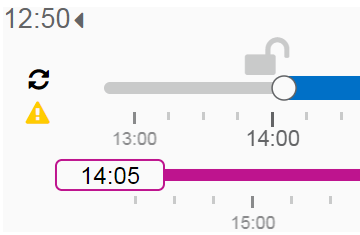
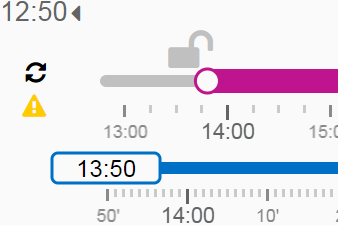
fixed styling changes (both work & text)

diff --git a/angular/src/app/slider-directive/slider-upper.directive.ts b/angular/src/app/slider-directive/slider-upper.directive.ts
@@ -11,7 +11,7 @@ import {
 
 export const LINE_HEIGHT_MULTIPLY = 1;
 export const LINE_EMPTY_HEIGHT_MULTIPLY = 0.5;
-export const THUMB_STROKE_MULTIPLY = 0.0625;
+export const THUMB_STROKE_MULTIPLY = 0.125;
 export const LOCKER_ICON_FONT_MULTIPLY = 2;
 
 @Directive({
@@ -43,7 +43,6 @@ export class D3SliderUpperDirective extends D3SliderBaseDirective {
     const sliderSideMargin = this.getSideMargin();
     const sliderTopMargin = fontSize * (this.isLockSectionHidden ? 1.125 : 2.25);
     const thumbSize = fontSize * 0.5;
-    const thumbSizeClick = fontSize * 0.625;
     const leftLockAddition = fontSize * 0.875;
     const rightLockAddition = fontSize * 2.875;
 
@@ -51,25 +50,14 @@ export class D3SliderUpperDirective extends D3SliderBaseDirective {
     let normValueRight = this.getNormValue(this.rangeChosen[1]); // value normalized between 0-1
     let denormValueDrag;
 
-    // after initial click on handler these 'START' methods are called:
-    function dragStartLeft() {
-      leftHandler.attr('r', thumbSizeClick);
-    }
-
-    function dragStartRight() {
-      rightHandler.attr('r', thumbSizeClick);
-    }
-
     // after releasing handler these 'END' methods are called:
     function dragEndLeft() {
-      leftHandler.attr('r', this.thumbSize);
       if (eventLeft) {
         eventLeft(normValueLeft);
       }
     }
 
     function dragEndRight() {
-      rightHandler.attr('r', this.thumbSize);
       if (eventRight) {
         eventRight(normValueRight);
       }
@@ -145,7 +133,6 @@ export class D3SliderUpperDirective extends D3SliderBaseDirective {
 
       // re-render handler and related elements
       rightHandler.attr('cx', sliderSideMargin + selectedValueRight);
-      rightLockWrapper.attr('x', selectedValueRight + rightLockAddition);
       valueLine.attr('x2', sliderSideMargin + selectedValueRight);
       emptyLineRight
         .attr('x1', sliderSideMargin + selectedValueRight)
@@ -153,10 +140,8 @@ export class D3SliderUpperDirective extends D3SliderBaseDirective {
 
       // handle LIVE preview of lock (when you move handler but not release)
       if (normValueRight === 1 && that.isRightLocked) {
-        rightLock.select('i').classed('fa-unlock', false).classed('fa-lock', true);
         leftLockWrapper.style('display', 'inherit');
       } else {
-        rightLock.select('i').classed('fa-unlock', true).classed('fa-lock', false);
         leftLockWrapper.style('display', 'none');
       }
 
@@ -198,8 +183,6 @@ export class D3SliderUpperDirective extends D3SliderBaseDirective {
         .attr('x', selectedValueLeft + leftLockAddition)
         .style('display', normValueRight === 1 && that.isRightLocked ? 'inherit' : 'none');
       rightHandler.attr('cx', sliderSideMargin + selectedValueRight);
-      rightLockWrapper
-        .attr('x', selectedValueRight + rightLockAddition);
 
       emptyLineLeft
         .attr('x1', sliderSideMargin)
@@ -256,14 +239,14 @@ export class D3SliderUpperDirective extends D3SliderBaseDirective {
       .attr('cx', sliderSideMargin + (width * normValueLeft))
       .attr('cy', sliderTopMargin)
       .attr('r', thumbSize)
-      .style('stroke', DARK_GREY)
+      .style('stroke', COLOR_UPPER)
       .style('stroke-width', THUMB_STROKE_MULTIPLY * fontSize)
       .style('fill', COLOR_THUMB);
     const rightHandler = selection.append('circle')
       .attr('cx', sliderSideMargin + (width * normValueRight))
       .attr('cy', sliderTopMargin)
       .attr('r', thumbSize)
-      .style('stroke', DARK_GREY)
+      .style('stroke', COLOR_UPPER)
       .style('stroke-width', THUMB_STROKE_MULTIPLY * fontSize)
       .style('fill', COLOR_THUMB);
 
@@ -285,8 +268,7 @@ export class D3SliderUpperDirective extends D3SliderBaseDirective {
 
     const rightLockWrapper = selection
       .append('svg:foreignObject')
-      .attr('x', (width * normValueRight) + rightLockAddition)
-      // .attr('y', -10)
+      .attr('x', width + rightLockAddition)
       .attr('width', fontSize * LOCKER_ICON_FONT_MULTIPLY)
       .attr('height', fontSize * LOCKER_ICON_FONT_MULTIPLY)
       .style('font-size', LOCKER_ICON_FONT_MULTIPLY + 'rem')
@@ -300,12 +282,10 @@ export class D3SliderUpperDirective extends D3SliderBaseDirective {
       });
 
     leftHandler.call(d3.drag()
-      .on('start', dragStartLeft)
       .on('drag', dragLeft)
       .on('end', dragEndLeft))
       .style('cursor', 'hand');
     rightHandler.call(d3.drag()
-      .on('start', dragStartRight)
       .on('drag', dragRight)
       .on('end', dragEndRight))
       .style('cursor', 'hand');

diff --git a/angular/src/app/slider-directive/slider-lower.directive.ts b/angular/src/app/slider-directive/slider-lower.directive.ts
@@ -170,7 +170,7 @@ export class D3SliderLowerDirective extends D3SliderBaseDirective {
       .attr('height', tooltipHeight)
       .style('fill', COLOR_THUMB)
       .style('stroke', COLOR_LOWER)
-      .style('stroke-width', 2);
+      .style('stroke-width', tooltipCornerRadius / 2);
     rightHandler = selection.append('rect')
       .attr('x', sliderSideMargin + (width * normValueRight) - halfTooltipWidth)
       .attr('y', sliderTopMarginTooltip)
@@ -179,7 +179,7 @@ export class D3SliderLowerDirective extends D3SliderBaseDirective {
       .attr('height', tooltipHeight)
       .style('fill', COLOR_THUMB)
       .style('stroke', COLOR_LOWER)
-      .style('stroke-width', 2);
+      .style('stroke-width', tooltipCornerRadius);
     leftTooltip = selection.append('text')
       .attr('x', sliderSideMargin + (width * normValueLeft) - halfTooltipWidth)
       .attr('dx', halfTooltipWidth)

diff --git a/angular/src/app/slider-directive/slider-base.directive.ts b/angular/src/app/slider-directive/slider-base.directive.ts
@@ -2,8 +2,8 @@ import { EventEmitter, Input, OnChanges, Output, SimpleChanges } from '@angular/
 import * as d3 from 'd3';
 
 export const COLOR_THUMB = '#FAFAFA';
-export const COLOR_LOWER = '#BE148E';
-export const COLOR_UPPER = '#0070C7';
+export const COLOR_UPPER = '#BE148E';
+export const COLOR_LOWER = '#0070C7';
 export const DARK_GREY = '#636466';
 export const GREY_LOW = '#C0C0C0';
 

diff --git a/angular/src/scss/global-variables.scss b/angular/src/scss/global-variables.scss
@@ -5,11 +5,7 @@ $scale-height: 1.5rem;
 
 $grey-middle: #636466;
 $grey-low: #c0c0c0;
+$color-background: #fafafa;
+$color-warn: #ffcc00;
 $color-lock: #be148e;
 //$color-lock: #0070c7;
-$color-warn: #ffcc00;
-$color-background: #fafafa;
-
-$opacity-full: 1;
-$opacity-middle: .75;
-$opacity-low: .325;

diff --git a/angular/src/app/timeline-frame/timeline-scale/timeline-scale.component.scss b/angular/src/app/timeline-frame/timeline-scale/timeline-scale.component.scss
@@ -1,5 +1,9 @@
 @import '../../../scss/global-variables';
 
+$opacity-full: 1;
+$opacity-middle: .75;
+$opacity-low: .325;
+
 .timeline-scale {
   padding: 0;
   height: $scale-height;
